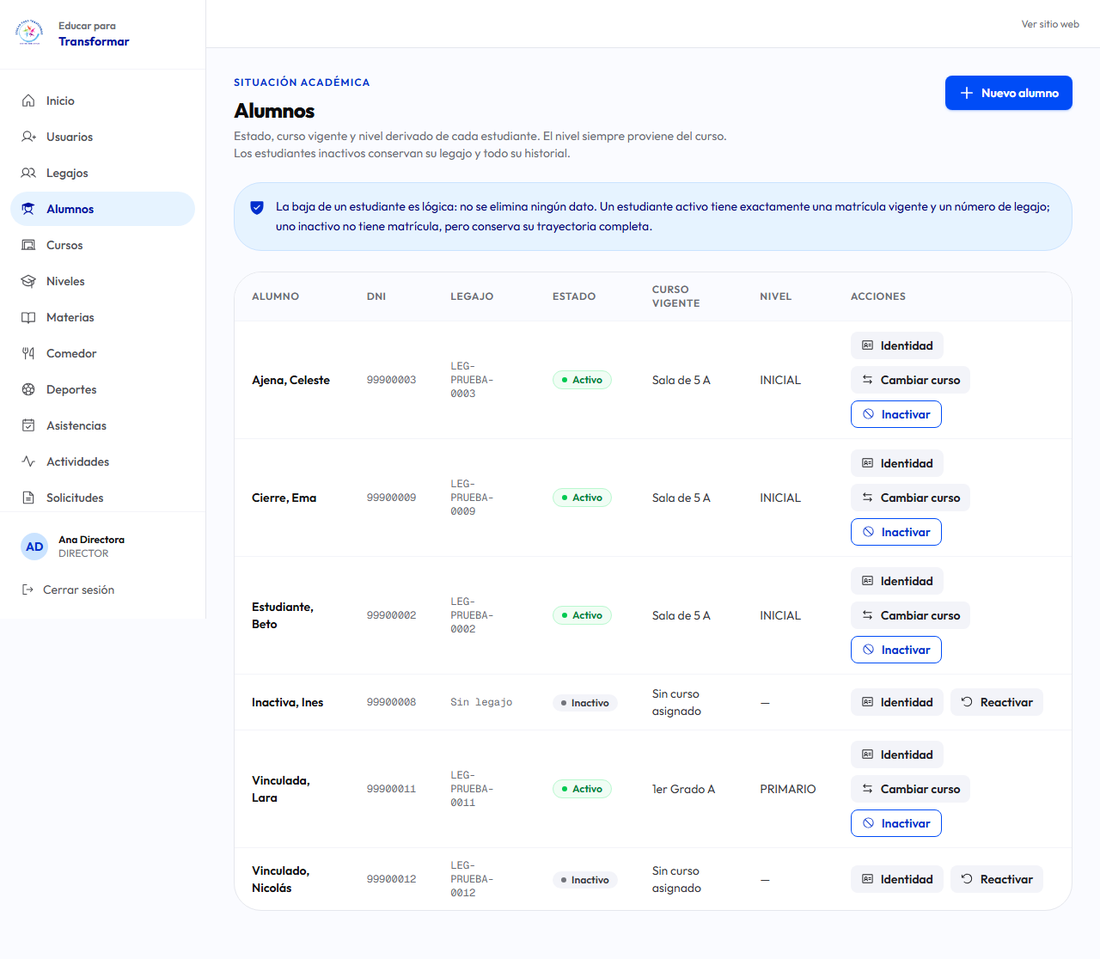
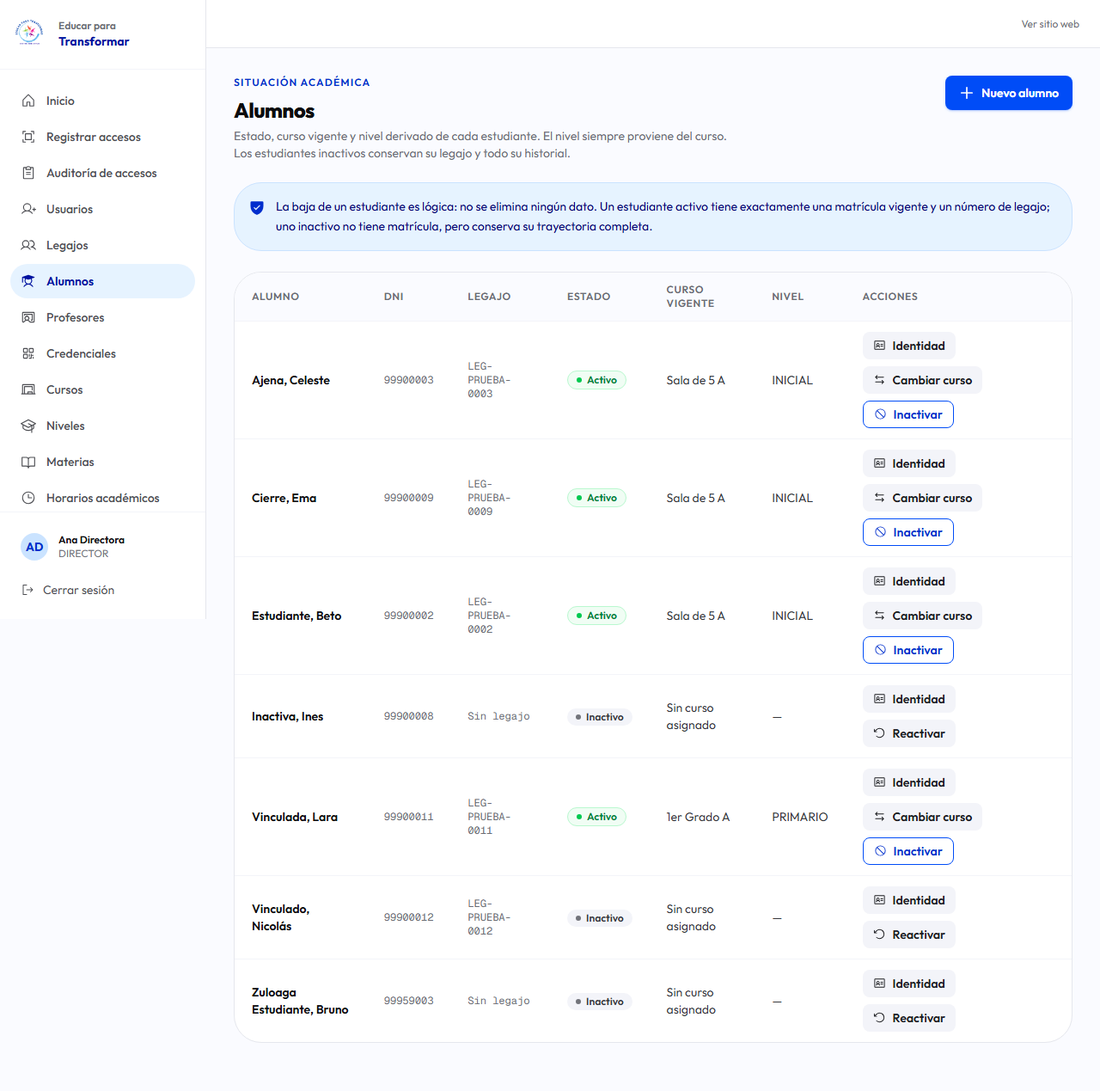
test(usuarios): el menú de PERSONAL incluye Registrar accesos (EPT-65)

diff --git a/tests/usuarios-permisos-auth.spec.ts b/tests/usuarios-permisos-auth.spec.ts
@@ -1086,11 +1086,11 @@ for (const actor of ['DOCENTE', 'ESTUDIANTE', 'PADRE', 'PERSONAL', 'SIN PERFIL']
     })
 
     if (actor === 'PERSONAL') {
-      test('PERSONAL solo tiene Inicio y Mi perfil, de solo lectura', async ({ page }) => {
+      test('PERSONAL solo tiene Inicio, Registrar accesos y Mi perfil', async ({ page }) => {
         await page.setViewportSize(ESCRITORIO)
         await page.goto('/dashboard')
         const menu = page.getByRole('navigation', { name: 'Menú del dashboard' })
-        await expect(menu.getByRole('link')).toHaveText(['Inicio', 'Mi perfil'])
+        await expect(menu.getByRole('link')).toHaveText(['Inicio', 'Registrar accesos', 'Mi perfil'])
         await expect(page.locator('main').getByRole('link', { name: /Mi perfil/u })).toBeVisible()
         await exigirSinDesbordeHorizontal(page, 'inicio de PERSONAL')
         await capturar(page, 'personal-inicio')

diff --git a/docs/evidence/EPT-65.md b/docs/evidence/EPT-65.md
@@ -1,0 +1,329 @@
+# EPT-65 — RF21: Registrar accesos con QR
+
+**Estado al 01/10/2026: candidato local, `blocked` para dos criterios.** El contrato aprobado está implementado y probado en las tres fronteras (base, servidor y navegador) sobre un stack local descartable. No se hizo push, PR, merge, despliegue ni cambio alguno en producción, y EPT-65 **no se transicionó** en Jira. Quedan dos puntos que este candidato no puede cerrar solo y que se informan sin disimulo:
+
+1. **Prueba de cámara en dispositivos reales (Android Chrome e iPhone Safari): NO realizada.** No hay un teléfono disponible en este entorno. La lectura por cámara se probó con el dispositivo de video falso de Chromium (lee un QR real firmado, registra y suelta las pistas) y los estados de permiso se probaron con simulaciones en Chromium y WebKit; **eso no equivale a un teléfono**. La sección 11 trae el procedimiento y la tabla a completar.
+2. **Responsable institucional y primera fecha de purga: SIN DEFINIR.** Son un gate previo al despliegue. Este informe no inventa nombres ni fechas ni afirma cumplimiento legal (sección 15).
+
+| Dato | Valor |
+|---|---|
+| Rama / worktree | `codex/ept-65-accesos-qr` en `E:\Escritorio\codigo\MetodologiaTPI-ept65` (el checkout principal no se tocó) |
+| Base | `origin/main` = `d4fa26f5bd0e76c1418822f6446c899b957c5b59` (verificado con `git fetch origin --prune`; coincide con el SHA informado por el orquestador) |
+| Código y pruebas verificados | `[[SHA_FINAL]]` (ver sección 12). El commit posterior solo agrega esta documentación y las capturas |
+| Jira | EPT-65 «Por hacer», asignada a Lucas Gimenez, hija de EPT-7, sin subtareas (consultado en vivo). EPT-64 «Listo». No se modificó ninguna issue |
+| Migración | `supabase/migrations/20261001012522_ept_65_registro_accesos_qr.sql` (aditiva; creada con `supabase migration new`; la última anterior es `20260929224534`) |
+| Entorno de prueba | Supabase local aislado (`project_id = ept65`, puertos 574xx, contenedor `supabase_db_ept65`), Next 16.3.3, `qr` 0.7.2 |
+
+## 1. Resumen ejecutivo
+
+Un operador autenticado (Dirección o Personal, cada uno con su propia cuenta) elige el servicio que controla —comedor, o un recorrido de transporte con su sentido— y lee el QR de la credencial del alumno con la cámara o con una fotografía. **Solo el texto íntegro del QR viaja al servidor.** El servidor verifica formato, versión, `kid` y firma HMAC con una clave que la base nunca ve; **solo con firma válida** invoca la única operación de PostgreSQL que registra un acceso, con un cliente administrativo (`service_role`) que no hereda el token del usuario. PostgreSQL revalida en cada ejecución que el actor sea DIRECTOR o PERSONAL con acceso habilitado, bloquea alumno, credencial, perfil, servicio e inscripción en el orden del dominio, relee todo tras esperar, aplica las reglas de comedor y transporte y devuelve un resultado cerrado.
+
+Lo que **no** se puede hacer, probado con sesiones reales: registrar un acceso conociendo solo un `credencial_id` (ni Dirección ni Personal, por la API, por la RPC pública, por la privada ni escribiendo la tabla); leer eventos o denegaciones como Personal; leer la tabla como cualquiera; ejecutar el mantenimiento de retención desde un rol de aplicación.
+
+Aportes sobre el contrato: auditoría paginada y filtrable de solo lectura para Dirección, anulación con motivo que **libera el cupo del día sin borrar la historia**, límite de intentos atómico por cuenta operadora, idempotencia por `intento_id` ligada al operador, retención con anonimización y un mantenimiento cerrado a todo rol de aplicación y auditado.
+
+## 2. Fuentes, línea base y contradicciones
+
+| Fuente | Resultado |
+|---|---|
+| Git | `origin/main` `d4fa26f…`, 25 migraciones, la última `20260929224534_ept_64_credencial_qr.sql`. El checkout principal está atrasado y con cambios ajenos (`AGENTS.md`, `.atl/`, `.claude/`, `docs/`): se preservaron íntegros y se trabajó en un worktree limpio nuevo |
+| Jira (en vivo) | EPT-64 «Listo»; EPT-65 «Por hacer», de Lucas Gimenez, hija de EPT-7, sin subtareas; descripción: «Identificar al alumno mediante el código QR y registrar el uso del comedor o del transporte. Ventana 12/10 al 16/10.» El informe de auditoría que decía que EPT-64 seguía «En curso» quedó desactualizado |
+| Contrato | Aprobado por Lucas en el pedido de esta tarea. **Ninguna contradicción material** con el código ni con la base: no hubo que detener ninguna parte |
+| `docs/orchestration/` | Contexto histórico: no se usó su SHA, sus estados de Jira ni sus defectos como hechos actuales. Next es 16.3.3 (no 16.2.5) |
+| Next 16.3.3 | Se leyeron las guías locales de `node_modules/next/dist/docs/` antes de escribir código: Route Handlers (`15-route-handlers.md`: solo se cachea `GET` con opción explícita; 405 para métodos no exportados) y `headers` (la última regla gana cuando dos fijan el mismo encabezado) |
+| `qr` 0.7.2 | Exports reales: `.`, `./decode.js`, `./dom.js`. Se usan `decodeQR` y `encodeQR`; **no** se usa `dom.js` (la cámara se maneja a mano para controlar permiso, tiempo máximo y liberación de pistas) ni `BarcodeDetector` |
+| Auditoría del contrato (memoria de sesión) | Confirmada: una RPC abierta a `authenticated` que reciba un identificador es un bypass del escaneo. Es el diseño que se evitó |
+
+Contradicciones de entorno (no de producto): el **puerto 3000 estaba ocupado por un proceso ajeno** (`node codigo.js`, PID 29388, iniciado ese día; no es esta aplicación) que respondía 200. Playwright con `reuseExistingServer` lo habría tomado por esta aplicación. No se lo tocó: se agregó `EPT_PUERTO_APP` / `EPT_BASE_URL` a `playwright.config.ts` y las 19 suites que fijaban `localhost:3000` leen ahora la URL base del entorno (el valor por defecto no cambia).
+
+## 3. Contrato aprobado y decisiones
+
+Los 17 puntos del contrato están implementados. Las decisiones que el contrato dejaba a criterio:
+
+1. **Interfaz de lectura sin tabla.** Ningún rol de aplicación tiene privilegio alguno sobre las tablas (ni `SELECT`). Dirección lee por `listar_accesos_servicios` (solo lectura, paginada a 25, tope 100, filtros por día de Buenos Aires, resultado y servicio) y anula por `anular_acceso_servicio`; ambas revalidan `auth.uid()` y el rol DIRECTOR habilitado dentro de la base.
+2. **Resultado cerrado.** `REGISTRADO`, `YA_REGISTRADO`, `NO_HABILITADO`, `NO_RECONOCIDO`, más `INTENTO_REUTILIZADO` (409) para el reuso de un intento con otros argumentos, exigido por el punto 10. `LIMITE_EXCEDIDO` es el código del 429. Solo `REGISTRADO` lleva nombre, apellido y legajo; el texto en pantalla de todo resultado sale **del catálogo local** y nunca de la red.
+3. **Anulación libera el cupo.** El cupo diario cuenta solo eventos REGISTRADO **sin** fila de anulación. Probado en SQL, concurrencia, API y pantalla.
+4. **Un acceso por día = serialización, no índice.** Un índice único parcial no puede mirar otra tabla (las anulaciones). La garantía es el bloqueo `alumnos FOR NO KEY UPDATE` que toman el registro, la anulación y el trigger de la tabla, más la comprobación en el trigger (defensa aun contra el propietario). Lo prueban 6 escaneos simultáneos del mismo alumno (1 REGISTRADO y 5 YA_REGISTRADO) y el estrés.
+5. **Día de Buenos Aires.** `dia_servicio` es una columna generada `(registrado_en AT TIME ZONE 'America/Argentina/Buenos_Aires')::date` (la conversión sobre `timestamptz` es inmutable). 02:30 UTC del 10/03 pertenece al 09/03.
+6. **Hora sellada con `clock_timestamp()`** (no `now()`): refleja el instante real, tras esperar los bloqueos. Un trigger la reescribe, de modo que ni el propietario retrocede un evento. Ninguna prueba infiere el orden de commits comparando `now()` de transacciones.
+7. **Servicio y recorrido por identificador de catálogo.** El operador elige entre los servicios activos de `servicios_escolares` (legibles por toda sesión autenticada); la base valida que el sentido sea obligatorio en transporte y ausente en comedor (`P5653`) y que el servicio exista (`P5652`).
+8. **Límite en base, atómico.** Un advisory lock por operador (`65001`) serializa conteo e inserción. Los valores —**60 solicitudes en 5 minutos, 10 inválidos en 10 minutos, bloqueo de 15 minutos— son de partida, NO medidos en producción** y viven en una sola función (`app_private.parametros_limite_escaneo()`): ver sección 16.
+9. **`p_actor_user_id` (excepción a EPT-64).** EPT-64 deriva el actor de `auth.uid()`. Acá el invocador es `service_role`, cuyo `auth.uid()` es nulo, así que el actor llega como argumento. Se compensa en dos puntos: el servidor lo obtiene de la **sesión verificada** (nunca del cuerpo; el esquema es estricto y no tiene dónde ponerlo) y PostgreSQL lo **revalida en cada ejecución** bajo `FOR SHARE` de la fila del perfil (rol DIRECTOR o PERSONAL y acceso HABILITADO). La garantía de la firma vive en la frontera servidor → base porque la base no conoce la clave HMAC.
+10. **Origen de la petición.** El repositorio no tenía comprobación de `Origin` para rutas con cookies (se apoyaba en `SameSite=Lax`). Las dos rutas nuevas agregan `origenPermitido` (Origin debe coincidir con el host; sin Origin decide `Sec-Fetch-Site`; sin ninguno se admite, porque un cliente que no es un navegador no tiene una cookie ajena que abusar) y exigen `Content-Type: application/json`. No se tocaron las demás rutas.
+11. **Política de cámara.** `Permissions-Policy: camera=(), microphone=(), geolocation=()` en todo el sitio y `camera=(self), …` solo en `/dashboard/accesos` (`next.config.ts`, la regla específica va después de la general).
+
+## 4. Matriz criterio → frontera → archivo → prueba → resultado
+
+| # | Criterio del contrato | Frontera de seguridad | Implementación | Prueba | Resultado |
+|---|---|---|---|---|---|
+| 1 | Solo DIRECTOR/PERSONAL habilitados, cada uno con su cuenta | base (`operador_de_escaneo`) + servidor (`requerirSesionConRol`) | migración §9.1; `registro/route.ts` | SQL B1–B9, I14–I19; `accesos-qr-auth` (todos los actores y bloqueados) | Cumplido |
+| 2 | Firma HMAC verificada **antes** de consultar la credencial | servidor | `accesos-qr.service.ts` (`registrarEscaneo`) | `accesos-qr-servicio` (8 payloads inválidos → solo el contador de inválidos) | Cumplido |
+| 3 | Clave solo en el servidor; falla cerrado | servidor | `credenciales-qr/claves.ts` (reutilizado) | servicio (sin/ con clave inválida → 503, sin fetch); `auth` (la clave no aparece en HTML ni respuestas) | Cumplido |
+| 4 | Operación solo `service_role`; sin DML directo; RLS | base | migración §8, §14 | SQL A1–A5, J1–J10; `auth` (ataque directo) | Cumplido |
+| 5 | Actor de la sesión verificada; revalidado en la base | servidor + base | `registro/route.ts`; `operador_de_escaneo` | SQL B5–B7; servicio (el cuerpo de la RPC lleva el actor de la sesión) | Cumplido |
+| 6 | Reglas bajo bloqueo con relectura | base | migración §10 | concurrencia 1–8; SQL C–E | Cumplido |
+| 7 | Comedor 1/día; transporte 1 por recorrido, día y sentido; IDA y VUELTA el mismo día | base | trigger + función | SQL C1–C8, D1–D13; API transporte | Cumplido |
+| 8 | Hora de la base; transacción; DENEGADO persistido sin RAISE posterior | base | `registrar_acceso_servicio` retorna | SQL C1/C2, E3–E12; estrés (respuestas = filas) | Cumplido |
+| 9 | Sin evento ni datos para payload inválido o id inexistente | servidor + base | `NO_RECONOCIDO` sin fila | SQL E1–E2; API | Cumplido |
+| 10 | `intento_id` por operador: idempotente, `INTENTO_REUTILIZADO`, aislado | base | índice único `(operador, intento)` | SQL F1–F13; concurrencia 9; API; UI (reintento con el mismo intento) | Cumplido |
+| 11 | Respuesta cerrada; denegación genérica | servidor + UI | catálogo local | cripto; servicio; UI | Cumplido |
+| 12 | Solo Dirección lee eventos; PERSONAL no | base | `listar_accesos_servicios` | SQL H1–H15; auth PERSONAL; UI auditoría | Cumplido |
+| 13 | Anulación 3–200, sin doble, libera cupo | base | `anular_acceso_servicio` | SQL G1–G26; concurrencia 8; API; UI | Cumplido |
+| 14 | Sin registro manual ni modo sin conexión; cámara y foto con la misma verificación | servidor + UI | esquema estricto; `EscanerAcceso` | cripto (campos de identidad rechazados); auth (foto y cámara) | Cumplido en Chromium; **dispositivos reales: pendiente** |
+| 15 | Límite atómico, 429 con `Retry-After`, antes de la firma | base + servidor | `consumir_cupo_escaneo`; ruta | SQL I1–I13; concurrencia 10 (90 simultáneas → 60); auth 429 | Cumplido (valores de partida) |
+| 16 | Retención y mantenimiento cerrado y auditado | base | `depurar_accesos_servicios` | SQL K1–K22 | Cumplido; **responsable y fecha: pendientes** |
+| 17 | Dispositivo compartido: datos a ~5 s, sin storage, sin imágenes, sin logs | UI + servidor | `EscanerAcceso`, `decodificar.ts` | UI; auth (sin payload en URL/almacenamiento); servicio (consola limpia) | Cumplido; inactividad: riesgo documentado |
+| — | Migración aditiva sobre datos existentes | base | — | `accesos_servicios_migracion_sobre_datos.mjs` | 32 tablas idénticas por MD5 |
+| — | Auditoría de `consultar_validez_credencial_qr` | base | — | SQL L1–L5; auth | Decisión pendiente (sección 13) |
+
+## 5. La frontera HMAC servidor → `service_role`, y por qué un identificador no sirve
+
+```
+ Navegador (operador)             Servidor Next                        PostgreSQL
+ ───────────────────              ─────────────────────────────        ─────────────────────────────
+ payload íntegro del QR  ──POST──▶ 1 origen  2 sesión + rol
+ intento_id, servicio_id           3 consumir_cupo_escaneo ─service_role─▶ límite atómico (advisory 65001)
+ (sin actor, sin ids)              4 cuerpo estricto
+                                   5 verificarPayload (HMAC-SHA256,
+                                      formato, versión, kid)  ── falla ──▶ registrar_escaneo_invalido
+                                   6 solo con firma válida:                 (cuenta; NO_RECONOCIDO, sin evento)
+                                     registrar_acceso_servicio ─service_role─▶ operador_de_escaneo (FOR SHARE)
+                                       p_actor_user_id = sesión                alumno FOR NO KEY UPDATE
+                                       p_credencial_id = id extraído           → credencial → perfil → servicio
+                                                                                → inscripción (FOR SHARE) → INSERT
+                                   ◀── resultado cerrado ◀────────────────────  (sin RAISE posterior)
+ ◀── JSON no-store ◀──
+```
+
+**Por qué un `credencial_id` no alcanza.** Dirección lee todos los identificadores de `credenciales_qr` por RLS y el identificador viaja en claro dentro del payload y de las APIs de tarjeta. Una función abierta a `authenticated` que lo recibiera permitiría «escanear» sin QR ni firma. Por eso la operación **no existe** para `anon` ni `authenticated`: lo prueba la matriz de abajo y el ataque directo real de la sección 6.
+
+**El cliente administrativo.** `createAdminClient()` crea un cliente nuevo con `SUPABASE_SERVICE_ROLE_KEY`, sin sesión ni cookies, en cada operación; `Authorization` y `apikey` llevan la clave de servicio. `accesos-qr-servicio.spec.ts` lo comprueba sobre el código real interceptando `fetch`: la petición a `registrar_acceso_servicio` no lleva cookie ni token de usuario y su cuerpo contiene el actor de la sesión y la credencial extraída del payload, nunca el payload ni la firma. Si no se puede crear (falta la clave), falla cerrado con 503.
+
+## 6. Privilegios y prueba de ataque directo
+
+Privilegio `EXECUTE` (consulta real a `pg_proc` sobre la base local; `PUBLIC` = ningún privilegio concedido a todos):
+
+| Función | anon | authenticated | service_role | PUBLIC |
+|---|:-:|:-:|:-:|:-:|
+| `public.registrar_acceso_servicio(uuid,uuid,uuid,uuid,sentido)` y su par `app_private` | – | – | **sí** | – |
+| `public.consumir_cupo_escaneo(uuid)` y su par `app_private` | – | – | **sí** | – |
+| `public.registrar_escaneo_invalido(uuid)` y su par `app_private` | – | – | **sí** | – |
+| `public.anular_acceso_servicio(uuid,text)` y su par | – | sí (revalida Dirección) | – | – |
+| `public.listar_accesos_servicios(...)` y su par | – | sí (revalida Dirección) | – | – |
+| `app_private.operador_de_escaneo`, `respuesta_de_intento`, `parametros_limite_escaneo`, `depurar_accesos_servicios` | – | – | – | – |
+| `public.consultar_validez_credencial_qr(uuid)` (EPT-64, sin cambios) | – | sí (revalida Dirección) | – | – |
+
+Tablas `accesos_servicios`, `anulaciones_accesos_servicios`, `app_private.contadores_escaneo` y `app_private.depuraciones_accesos_servicios`: **RLS activo y ningún privilegio** (`SELECT`, `INSERT`, `UPDATE`, `DELETE`, `TRUNCATE`, `REFERENCES`, `TRIGGER`) para `anon`, `authenticated` ni `service_role` (la autoverificación de la migración y SQL A1–A2 lo comprueban en cada reset). Las dos tablas públicas tienen solo la política RESTRICTIVE de bloqueo de cuenta de EPT-59 y ninguna política permisiva.
+
+**Ataque directo real (`accesos-qr-auth.spec.ts`, sesiones reales por PostgREST).** DIRECTOR y PERSONAL conocen un `credencial_id` válido (Dirección lo lee por RLS) pero no el payload firmado. Ninguno puede crear un REGISTRADO: `registrar_acceso_servicio` con su propio usuario como actor, con un actor inventado, `consumir_cupo_escaneo`, `registrar_escaneo_invalido`, `INSERT` directo y `SELECT` de las tablas devuelven `42501`/error y **no dejan ningún evento ni contador**. El mismo ataque con ESTUDIANTE, DOCENTE, PADRE, cuenta sin perfil y las cinco identidades bloqueadas también falla.
+
+## 7. Modelo de eventos, idempotencia, anulación, límites, retención y privacidad
+
+**Eventos** (`accesos_servicios`): `id`, `intento_id`, operador, credencial, alumno, servicio declarado, sentido, resultado, motivo interno de denegación, `registrado_en` (sellado por la base), `dia_servicio` (generada) y `anonimizado_en`. No hay columna de payload, firma, clave, DNI, IP, user-agent ni imagen (una autoverificación lo comprueba por nombre). Solo se agregan filas; el trigger rechaza `UPDATE` y `DELETE` incluso del propietario, salvo las dos excepciones del mantenimiento.
+
+**Idempotencia.** El índice único `(operador, intento_id)` es la autoridad. Mismo operador + mismo intento + mismos argumentos devuelve el resultado ya guardado (incluida la hora sellada); con otros argumentos devuelve `INTENTO_REUTILIZADO` sin tocar el evento; otro operador con el mismo UUID se procesa por su cuenta y no recibe nada del primero. Un reintento simultáneo con otro alumno (otro candado) lo resuelve el índice: la segunda llamada captura el `unique_violation` y responde `INTENTO_REUTILIZADO`.
+
+**Anulación.** Una fila nueva en `anulaciones_accesos_servicios` (clave primaria = el evento, así que no se anula dos veces), con motivo de 3 a 200 caracteres y la autora tomada de la sesión. Solo se anula un REGISTRADO. El evento original no se edita ni se borra.
+
+**Límite.** `consumir_cupo_escaneo` (≤ 60 solicitudes por 5 minutos) y `registrar_escaneo_invalido` (≤ 10 inválidos por 10 minutos); superar cualquiera bloquea 15 minutos. Las solicitudes rechazadas no suman. Los contadores no guardan el payload y duran 24 horas.
+
+**Retención (política de producto aprobada, no una afirmación legal).** `app_private.depurar_accesos_servicios(fin_ciclo_lectivo)`: anonimiza los REGISTRADO cuyo día de servicio es ≤ el fin de ciclo indicado **solo si pasaron 90 días** (quita operador, alumno, credencial e intento; conserva servicio, sentido, resultado y fecha), anonimiza sus anulaciones (autora y motivo libre), elimina los DENEGADO de más de 90 días y los contadores de más de 24 horas, y deja una fila en un registro de auditoría de solo agregado (quién la ejecutó —`session_user`—, cuándo y cuántas filas). **No está cerrada por una variable que cualquiera pueda fijar:** ningún rol de aplicación tiene `EXECUTE` sobre ella ni privilegios de tabla, así que fijar la variable de mantenimiento no les da nada (SQL K4–K5). La guarda de las tablas es defensa en profundidad contra el propietario.
+
+**Privacidad.** El payload vive solo en memoria de la pantalla (ni `localStorage`, ni `sessionStorage`, ni URL) y se descarta al resolver el intento; las imágenes se decodifican en el dispositivo y el lienzo se suelta enseguida; los datos del alumno desaparecen de la pantalla a los 5 segundos; la consola del servidor solo registra contexto y código (probado: ni payload, ni firma, ni clave, ni credencial).
+
+## 8. Orden de bloqueos y concurrencia
+
+Orden: **perfil del operador (FOR SHARE) → [lectura sin bloqueo del `alumno_id` inmutable de la credencial] → alumnos (FOR NO KEY UPDATE) → relectura de intento → credencial (FOR SHARE) → perfil del alumno (FOR SHARE) → servicio (FOR SHARE) → inscripción (FOR SHARE) → INSERT**. Se verificó contra el código real, sin copiar el orden candidato a ciegas:
+
+- `emitir/reponer/revocar` (EPT-64) e `inactivar/reactivar` (008) toman `alumnos` primero: se serializan, sin ciclos.
+- Cancelar una inscripción (013, EPT-62) toma solo la fila de la inscripción y su trigger no toma `alumnos` en un `UPDATE`.
+- `establecer_recorrido_transporte` (EPT-60) usa el mismo orden alumnos → servicio → inscripción.
+- `cambiar_acceso_perfil` (EPT-59) toma el advisory 59001 y la fila de `perfiles` del afectado; ningún trigger de `perfiles` toca `alumnos` ante un cambio de `estado_acceso`. **No hay ciclo.**
+- El límite usa un advisory lock propio que nadie más toma.
+
+**Resultados** (`supabase/tests/accesos_servicios_concurrencia.mjs`, conexiones `psql` reales, coordinadas con `pg_blocking_pids`, nunca por tiempo; cada carrera en los dos órdenes):
+
+| Carrera | Orden a (escaneo confirma antes) | Orden b (el cambio confirma antes) |
+|---|---|---|
+| 1 Revocación | REGISTRADO legítimo; después NO_HABILITADO | escaneo en espera → NO_HABILITADO (CREDENCIAL_REVOCADA), 0 REGISTRADO |
+| 1 Reposición | — | la credencial vieja se deniega; la nueva registra |
+| 2 Inactivar alumno | REGISTRADO legítimo | NO_HABILITADO (ALUMNO_INACTIVO) |
+| 3 Bloquear perfil del alumno (EPT-59) | REGISTRADO legítimo | NO_HABILITADO (ACCESO_BLOQUEADO) |
+| 4 Bloquear al **operador** | REGISTRADO legítimo; después `42501` | `42501`, sin evento parcial |
+| 5 Cancelar inscripción | REGISTRADO legítimo | NO_HABILITADO (SIN_INSCRIPCION) |
+| 6 Desactivar / reactivar recorrido | REGISTRADO legítimo | NO_HABILITADO (SERVICIO_INACTIVO); reactivado → REGISTRADO |
+| 7 Cambio de recorrido | REGISTRADO legítimo en NORTE; después RECORRIDO_DISTINTO | NORTE denegado, SUR registra |
+| 8 Anulación | YA_REGISTRADO para el que llegó antes | el escaneo en espera REGISTRA (cupo liberado) |
+| 9 Doble escaneo / reintento | segundo = YA_REGISTRADO; reintento idéntico = 1 fila; mismo intento con otra credencial = INTENTO_REUTILIZADO | — |
+| 10 Ráfaga | 6 escaneos simultáneos → 1 REGISTRADO + 5 YA_REGISTRADO | 90 solicitudes simultáneas → exactamente 60 permitidas |
+| 11 Estrés acotado | 6×12 escaneos + 3×10 cambios de estado (reponer, inactivar, reactivar, bloquear, desbloquear, anular) | sin deadlocks (40P01), sin escrituras parciales (cada respuesta quedó persistida exactamente una vez) y sin REGISTRADO vigentes duplicados |
+
+Corrida registrada: `[[RESULTADO_CONCURRENCIA]]`.
+
+## 9. Servidor y API
+
+| Ruta | Método | Actores | Cuerpo |
+|---|---|---|---|
+| `/api/accesos-servicios/registro` | POST | DIRECTOR, PERSONAL | `{ payload, intento_id, servicio_id, sentido? }` (estricto) |
+| `/api/accesos-servicios/[accesoId]/anulacion` | POST | DIRECTOR | `{ motivo }` |
+
+Otros métodos → **405** con `Allow: POST, OPTIONS`; `OPTIONS` → 204. Toda respuesta lleva `Cache-Control: no-store`. Los errores son `{ error, codigo }` en español, sin SQLSTATE, sin identificadores y sin el motivo de una denegación.
+
+| Situación | Código HTTP | `codigo` |
+|---|---|---|
+| Origen ajeno / `Sec-Fetch-Site: cross-site` | 403 | `ORIGEN_NO_PERMITIDO` |
+| Sin sesión | 401 | `NO_AUTENTICADO` |
+| Rol que no opera (estudiante, padre, docente, sin perfil) | 403 | `SIN_PERMISO` |
+| Perfil bloqueado | 403 | `ACCESO_BLOQUEADO` |
+| Más de 60 solicitudes en 5 min, o 10 inválidos en 10 min | 429 + `Retry-After` | `LIMITE_EXCEDIDO` |
+| JSON inválido, tipo de contenido distinto, campo extra o desconocido | 400 | `CUERPO_INVALIDO` |
+| Cuerpo > 2048 bytes | 413 | `CUERPO_DEMASIADO_GRANDE` |
+| Sentido incoherente o servicio inexistente | 422 | `SERVICIO_INVALIDO` |
+| Mismo intento con otros argumentos | 409 | `INTENTO_REUTILIZADO` |
+| Falta la clave de firma o la de servicio | 503 | `SERVICIO_NO_DISPONIBLE` |
+| La base no respondió a tiempo (no sabemos si se registró) | 504 | `TIEMPO_AGOTADO` |
+| Error inesperado | 500 | `ERROR_INTERNO` |
+
+Un fallo **nunca** se convierte en una aprobación: una respuesta de la base fuera del conjunto cerrado, sin filas o con un REGISTRADO sin nombre es `ERROR_INTERNO` (probado). Los 401, 403, 405, 413, 429 y los códigos de dominio se probaron por HTTP; el 503 y el 504 se probaron en el servicio (con `fetch` interceptado) y en la pantalla (respuestas simuladas), no con el servidor real sin clave.
+
+## 10. Interfaz y accesibilidad
+
+`/dashboard/accesos` (Dirección y Personal): selector de servicio (comedor / transporte), recorrido y sentido obligatorios en transporte, lectura por cámara y por fotografía, estados de permiso pendiente (con tiempo máximo de 20 s), denegado, sin cámara, sin contexto seguro, error, QR ilegible, envío, éxito, denegación, límite, tiempo agotado y reintento. `/dashboard/accesos/auditoria` (solo Dirección): lista paginada y filtrable, motivo interno de cada denegación, estados anulado y anonimizado, y diálogo de anulación.
+
+- Región viva **cortés** (`role="status"`) para el éxito y **asertiva** (`role="alert"`) para el rechazo; el foco se mueve al título del resultado; «Escanear siguiente» devuelve el foco a la lectura.
+- No depende solo del color: cada resultado lleva icono decorativo y título textual.
+- Controles de al menos 44 px (medido en escritorio, Pixel 5 e iPhone 13), etiquetas accesibles, teclado completo, diálogo con foco contenido y retorno del foco al disparador.
+- 375 px sin desborde horizontal; contraste AA medido con la auditoría compartida del repositorio.
+- La cámara se inicia solo por un gesto; sin contexto seguro ni se intenta; se detienen **todas** las pistas al obtener un resultado, al ocultarse la pestaña, al cambiar de modo, al fallar, al detener y al desmontar. Un `play()` que no responde también vence.
+- La navegación del panel (EPT-59) sigue ocultando lo que el rol no puede usar; Personal ve «Registrar accesos» pero no «Auditoría de accesos».
+
+## 11. Dispositivos: lo realmente probado y lo no probado
+
+| Entorno | Qué se probó | Estado |
+|---|---|---|
+| Chromium de escritorio con dispositivo de video falso (`--use-file-for-fake-video-capture`, un `.y4m` generado en la corrida con un QR firmado con la clave efímera) | Lectura real de un QR por la cámara, registro, resultado y **todas las pistas en `ended`**, sesión real de Dirección | Probado |
+| Chromium escritorio y Pixel 5 emulado; WebKit iPhone 13 emulado | Todos los estados de permiso (denegado, sin dispositivo, ocupado, sin contexto seguro, sin API, permiso colgado con vencimiento), fotografía y resultados | Probado |
+| WebKit de Playwright (Windows) | **No implementa `MediaStream` ni `canvas.captureStream`**: la cámara activa no se puede simular allí (2 pruebas omitidas con motivo) | Límite del entorno |
+| **Android Chrome real** | — | **NO probado** |
+| **iPhone Safari real** | — | **NO probado** |
+
+Criterio de aceptación pendiente (**`blocked` hasta que se haga**): probar al menos un Android Chrome y un iPhone Safari con un QR real de prueba local, en condiciones seguras. Procedimiento:
+
+1. Levantar el stack local y la aplicación con HTTPS (por ejemplo `npx next dev --experimental-https -H <IP-de-la-red>`; el navegador del teléfono pedirá aceptar el certificado local).
+2. Iniciar sesión en el teléfono con una cuenta Personal de prueba y en otra pantalla con la alumna de prueba, abriendo «Mi credencial» (QR real firmado con la clave local).
+3. Elegir comedor, tocar «Escanear con la cámara», aceptar el permiso y apuntar. Repetir con una fotografía, con transporte (IDA y VUELTA) y con el permiso denegado.
+4. Completar la tabla siguiente **sin** adjuntar capturas con un QR válido ni datos personales.
+
+| Dispositivo y navegador | Fecha | Cámara (permiso, lectura, pistas liberadas) | Fotografía | Estados de error | Resultado |
+|---|---|---|---|---|---|
+| Android Chrome (modelo/versión) | _pendiente_ | _pendiente_ | _pendiente_ | _pendiente_ | _pendiente_ |
+| iPhone Safari (modelo/iOS) | _pendiente_ | _pendiente_ | _pendiente_ | _pendiente_ | _pendiente_ |
+
+## 12. Verificación: comandos, exit codes y SHA
+
+`[[VERIFICACION]]`
+
+## 13. Análisis focalizado de `consultar_validez_credencial_qr` (EPT-64)
+
+El contrato de EPT-64 decía que no se expondría una función de evaluación por identificador sin pasar por el servidor que valida la firma; la migración `20260929224534` concede `EXECUTE` de `public.consultar_validez_credencial_qr(uuid)` a `authenticated`.
+
+**Comprobado en el reset local:** la concesión es real (`authenticated` sí; `anon`, `service_role` y `PUBLIC` no). La función revalida `auth.uid()` y `app_private.es_director()` y para cualquier otro rol (incluido PERSONAL) falla con `42501`. **Único consumidor:** `verificarQr` (ruta `/api/credenciales-qr/verificacion`, solo Dirección) y la lectura del estado de acceso del alumno en la tarjeta que ve Dirección (`obtenerTarjeta` con `consultarAcceso`).
+
+**Alcance efectivo para DIRECTOR:** con solo un identificador, Dirección obtiene `estado_credencial`, `estado_alumno`, `acceso_alumno` y `valida`. Es información que Dirección **ya lee** por RLS (`credenciales_qr`, `alumnos`, `perfiles`); no concede ninguna capacidad nueva y **no registra ningún acceso** (SQL L3–L4 y la prueba de ataque: cero eventos). No sirve a Personal ni a ningún otro rol.
+
+**No se usó** como prueba de que se escaneó un QR, no se concedió a PERSONAL y el registro no se construyó sobre ella: tiene un TOCTOU (es `STABLE`, sin bloqueos) y por eso el registro evalúa todo bajo bloqueo en su propia operación.
+
+**Efecto de retirarla o restringirla:** dejaría de funcionar la verificación de Dirección y el aviso de «acceso bloqueado» de su tarjeta. Restringirla a `service_role` exige reescribir la función (hoy depende de `auth.uid()`), un cliente administrativo en dos rutas de EPT-64 y la reescritura de sus pruebas (`credenciales_qr_rls.sql` F1…, `credenciales-qr-auth.spec.ts`). Eso cambia el contrato de producto aprobado de EPT-64 y **no es necesario para EPT-65**.
+
+**Decisión: no se modificó.** La desviación queda documentada con evidencia y la nueva operación de EPT-65 permanece cerrada de todos modos. **Decisión mínima que se solicita a Lucas:** ¿se aprueba una historia posterior que restrinja esa función a `service_role` y mueva a Dirección a un cliente administrativo, o se acepta la desviación porque no concede capacidad adicional? No se reabre EPT-64 en Jira por inferencia.
+
+## 14. Fallos preexistentes frente a regresiones
+
+`[[PREEXISTENTES]]`
+
+## 15. Retención: gate previo al despliegue (PENDIENTE)
+
+Política aprobada como decisión de producto, **no como afirmación legal**: eventos identificables hasta el fin del ciclo lectivo + 90 días y luego anonimización; denegaciones 90 días y luego eliminación; contadores 24 horas. v1 se ejecuta a mano; **no se habilitó `pg_cron`** y habilitarlo requiere una aprobación nueva.
+
+**Gate pendiente (no se inventa ningún dato):**
+
+- Responsable institucional de ejecutar y custodiar la purga: **sin definir**.
+- Primera fecha de purga: **sin definir**.
+- Fin del ciclo lectivo que se pasará como argumento: **sin definir** (la función exige la fecha y se niega a correr antes de fin de ciclo + 90 días).
+
+Hasta que Lucas los asiente, este candidato **no está listo para desplegar**.
+
+Runbook manual (lo ejecuta el propietario de la base, nunca un rol de aplicación):
+
+```sql
+-- 1. Confirmar la fecha de fin de ciclo lectivo con la institución y quién ejecuta.
+-- 2. Ejecutar (una transacción; falla si todavía no pasaron 90 días):
+SELECT * FROM app_private.depurar_accesos_servicios(DATE '<fin del ciclo lectivo>');
+-- 3. Verificar la auditoría (quién, cuándo, cuántas filas):
+SELECT * FROM app_private.depuraciones_accesos_servicios ORDER BY id DESC LIMIT 5;
+```
+
+## 16. Riesgos, límites honestos y retrospectiva
+
+1. **Valores del límite sin medir.** 60/5 min, 10/10 min y 15 min son de partida. Antes de fijarlos como umbral productivo hay que someterlos a una prueba de carga y de usabilidad (una cola de comedor puede acercarse a 60 escaneos por operador en 5 minutos). El cambio es un solo `CREATE OR REPLACE` de `parametros_limite_escaneo()`.
+2. **Dispositivos reales sin probar** (sección 11).
+3. **Dispositivo compartido sin cierre por inactividad.** No se modificó el sistema de sesiones ni se inventó un tiempo universal: una sesión de operador abierta en un teléfono compartido sigue abierta. Mitigaciones presentes: cada operador usa su cuenta, los datos del alumno se ocultan a los 5 s y el payload no persiste. **Decisión pendiente si se quiere un cierre por inactividad.**
+4. **Vercel y el límite por región.** El límite es por cuenta y está en la base, no depende de la infraestructura del borde.
+5. **El propietario de la base puede deshabilitar los triggers de protección** (como en las demás tablas de historial del proyecto): la garantía frente a las aplicaciones es la ausencia de privilegios, no el trigger.
+6. **`service_role` es una clave poderosa.** Está solo en el servidor y la operación es la única que su rol puede ejecutar sobre estas tablas, pero una fuga de la clave sigue siendo grave: rotarla es una acción de Supabase fuera de este código.
+7. **Anulación sin límite de tiempo.** Dirección puede anular un acceso de cualquier día no anonimizado. Es lo aprobado; queda auditado.
+8. **`consultar_validez_credencial_qr`** (sección 13): decisión pendiente.
+9. **Un solo bloque de Dirección.** No hay un Director de respaldo para la anulación si el único Director está bloqueado; es una propiedad de EPT-59, no de esta historia.
+
+**Retrospectiva.** Lo que ahorró tiempo: probar la frontera con un `fetch` espía (demuestra el orden y la ausencia del token sin base) y fijar las carreras con `pg_blocking_pids` en vez de dormir. Lo que costó: el puerto 3000 ocupado por un proceso ajeno (obligó a parametrizar el puerto en 20 archivos de prueba), WebKit sin `MediaStream` en Windows (las pruebas de cámara activa solo corren en Chromium), y que una prueba ajena (`credenciales_qr_rls.sql`) asumía que `TRUNCATE` llegaba al trigger: con la clave foránea nueva PostgreSQL lo rechaza antes (se ajustó el código esperado sin debilitar la aserción y se agregó la variante con `CASCADE`). A mejorar: una verificación de que el usuario existe en Auth además del perfil (hoy el baneo no revoca el JWT en PostgREST; el servidor ya consulta `getUser`).
+
+## 17. Reversión
+
+La reversión de Git **no** deshace la base. Plan compensatorio (**documentado, no ejecutado**) que no destruye auditoría:
+
+1. Código: revertir el PR. Las rutas dejan de existir; la base queda con las operaciones cerradas, inofensivas.
+2. Base, paso mínimo (apaga la función sin perder datos): `REVOKE EXECUTE` de `public.registrar_acceso_servicio`, `public.consumir_cupo_escaneo` y `public.registrar_escaneo_invalido` (y de sus pares de `app_private`) a `service_role`, en una migración **nueva** (`..._ept_65_cerrar_registro_accesos.sql`).
+3. Base, retirada total (solo si se decide): exportar antes `accesos_servicios` y `anulaciones_accesos_servicios` y recién entonces `DROP` de funciones y tablas, en ese orden (`anulaciones` antes que `accesos`; las dos referencian a `credenciales_qr`, de modo que **revertir EPT-65 es previo a revertir EPT-64**). Nunca se borran tablas con datos sin exportarlas.
+4. Las pruebas de EPT-64 ya contemplan ese orden (`credenciales_qr_rls.sql`, sección R).
+
+## 18. Plan de despliegue y postflight (DOCUMENTADO, NO EJECUTADO)
+
+1. **Gate de retención resuelto** (sección 15) y decisión sobre `consultar_validez_credencial_qr` (sección 13) tomada.
+2. Confirmar el **proyecto correcto** y el **ledger**: `supabase migration list --linked` debe mostrar aplicada `20260929224534` y pendiente solo `20261001012522`.
+3. **Respaldo** de la base antes de aplicar (registrar su identificador, nunca su contenido).
+4. Aplicar **solo la migración pendiente** (revisar antes con `--dry-run`); la migración se autoverifica y aborta si algo no queda como se espera.
+5. Verificar grants y objetos **sin datos personales** con la consulta de privilegios de la sección 6 (la operación de registro solo para `service_role`; ninguna tabla con privilegios).
+6. Confirmar por **nombre, no por valor**, que existen en el servidor de producción: `SUPABASE_SERVICE_ROLE_KEY`, `QR_CREDENCIAL_KID_ACTIVA`, `QR_CREDENCIAL_CLAVES`. Nunca imprimir una clave ni un payload.
+7. Integrar el código **con autorización de Lucas** (PR → revisión → merge).
+8. Comprobar el despliegue: `/api/accesos-servicios/registro` responde 401 sin sesión y 405 a `GET`; `/dashboard/accesos` redirige al inicio de sesión; los encabezados `Permissions-Policy` coinciden; `/pruebas-ui/accesos` responde 404 idéntico al de una ruta inexistente.
+9. **Postflight con identidades de prueba autorizadas.** **No insertar eventos de prueba en producción sin autorización explícita y un plan de limpieza:** un REGISTRADO no se puede borrar (solo anular y, a su tiempo, anonimizar); una denegación de prueba se elimina a los 90 días. Si Lucas lo autoriza, acordar de antemano qué credencial y qué día se usan y aceptar que ese evento queda anulado en la auditoría.
+10. Programar la **primera purga** con el responsable y la fecha que la institución defina.
+
+## 19. Textos preparados (NO publicados)
+
+**Comentario para Jira (EPT-65):**
+
+> Candidato local de RF21 «Registrar accesos con QR» listo para revisión, sin integrar ni desplegar. Rama `codex/ept-65-accesos-qr` sobre `origin/main` `d4fa26f`; evidencia en `docs/evidence/EPT-65.md`. El operador (Dirección o Personal, con su propia cuenta) elige comedor o recorrido y sentido y lee el QR con la cámara o una foto; el servidor verifica la firma HMAC **antes** de invocar la operación de PostgreSQL, que solo ejecuta `service_role` y revalida al operador. Un `credencial_id` conocido no permite registrar nada (probado por PostgREST con sesiones reales). Incluye límite de intentos por cuenta, idempotencia por intento, anulación de Dirección que libera el cupo sin borrar historia, auditoría de solo lectura y retención con mantenimiento manual. Pruebas: SQL, concurrencia real en ambos órdenes, API con sesiones reales por actor, pantalla en escritorio, Pixel 5 e iPhone 13 emulados. **Pendiente:** (1) prueba de cámara en un Android Chrome y un iPhone Safari reales; (2) responsable institucional y primera fecha de purga; (3) decisión sobre `consultar_validez_credencial_qr` de EPT-64 (concedida a `authenticated`, sin capacidad adicional). Estado recomendado: **mantener «En curso»** hasta la revisión, la integración y el postflight de producción.
+
+**Título del PR:** `feat(accesos): registrar accesos al comedor y al transporte con QR (EPT-65)`
+
+**Descripción del PR:**
+
+> ## Qué hace
+> Registra el uso del comedor y del transporte a partir del QR de la credencial (RF21): operador autenticado (Dirección o Personal) → servidor verifica la firma HMAC → operación privilegiada de PostgreSQL (solo `service_role`) que revalida al operador, bloquea, relee y decide.
+>
+> ## Seguridad
+> - Ningún usuario autenticado puede registrar un acceso por RPC ni por tabla; un `credencial_id` no alcanza.
+> - La clave HMAC vive solo en el servidor; falla cerrado.
+> - Ningún rol de aplicación tiene privilegios sobre las tablas; Dirección lee por una función de solo lectura.
+> - Límite atómico por cuenta (60/5 min, 10 inválidos/10 min, bloqueo de 15 min: valores de partida, sin medir).
+>
+> ## Pruebas
+> SQL (299 comprobaciones), concurrencia real, migración sobre datos, API por actor, pantalla en tres perfiles. Ver `docs/evidence/EPT-65.md`.
+>
+> ## Pendiente antes de desplegar
+> Prueba en dispositivos reales; responsable y primera fecha de purga; decisión sobre `consultar_validez_credencial_qr`.
+
+## 20. Capturas
+
+`[[CAPTURAS]]`

diff --git a/README.md b/README.md
@@ -45,6 +45,18 @@ QR_CREDENCIAL_KID_ACTIVA=k1                   # clave con la que se FIRMAN las c
 QR_CREDENCIAL_CLAVES=k1:<base64url de >=32 bytes aleatorios>[,k2:<...>]
 ```
 
+- Registro de accesos con QR al comedor y al transporte (EPT-65): reutiliza las dos
+  variables anteriores y **además exige `SUPABASE_SERVICE_ROLE_KEY`**, también solo
+  del lado del servidor. Con ella el servidor ejecuta, **después** de verificar la
+  firma del QR, la única operación de PostgreSQL que registra un acceso (ningún
+  usuario autenticado puede ejecutarla). Sin esa clave o sin las del QR, el registro
+  **falla cerrado** (503). Pantallas: `/dashboard/accesos` (Dirección y Personal) y
+  `/dashboard/accesos/auditoria` (solo Dirección). La retención de datos se ejecuta
+  a mano; el procedimiento, el plan de despliegue y los límites de la prueba están
+  en `docs/evidence/EPT-65.md`.
+- Pruebas end-to-end: si otro proceso ocupa el puerto 3000, definir `EPT_PUERTO_APP`
+  (por ejemplo `EPT_PUERTO_APP=3100`) antes de `npm run test:e2e`.
+
 ## Desarrollo
 
 ```bash
